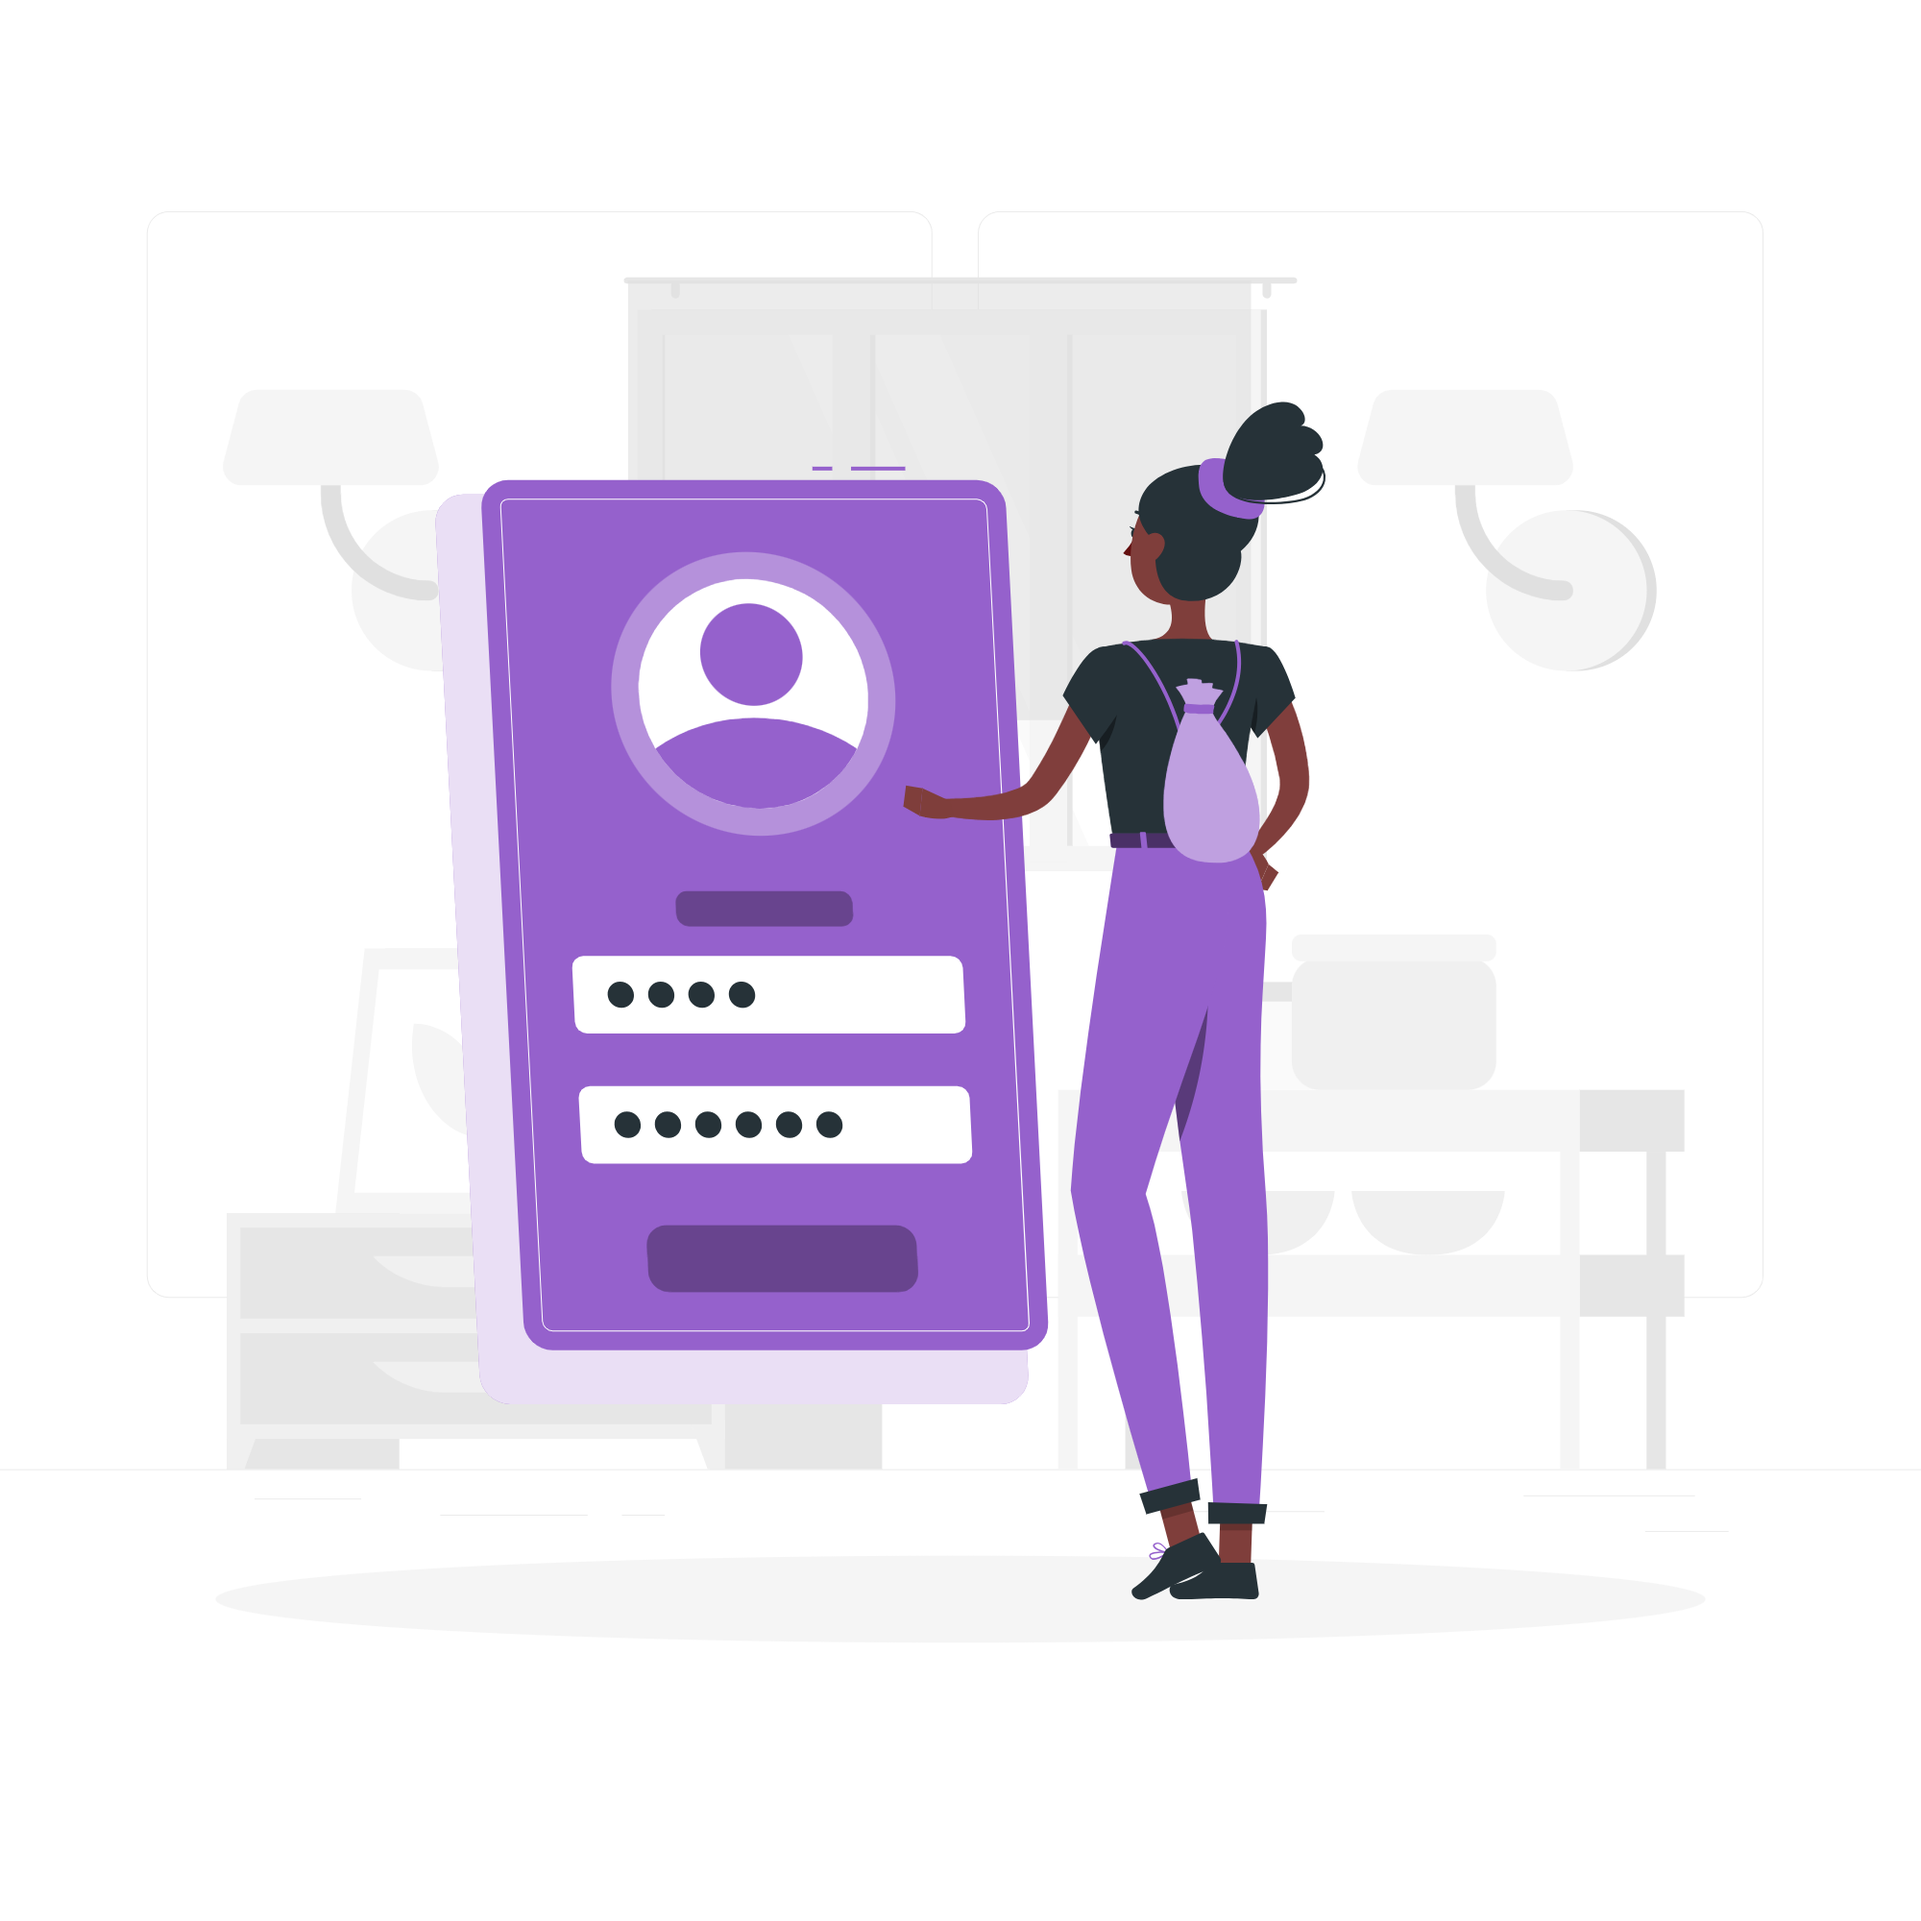
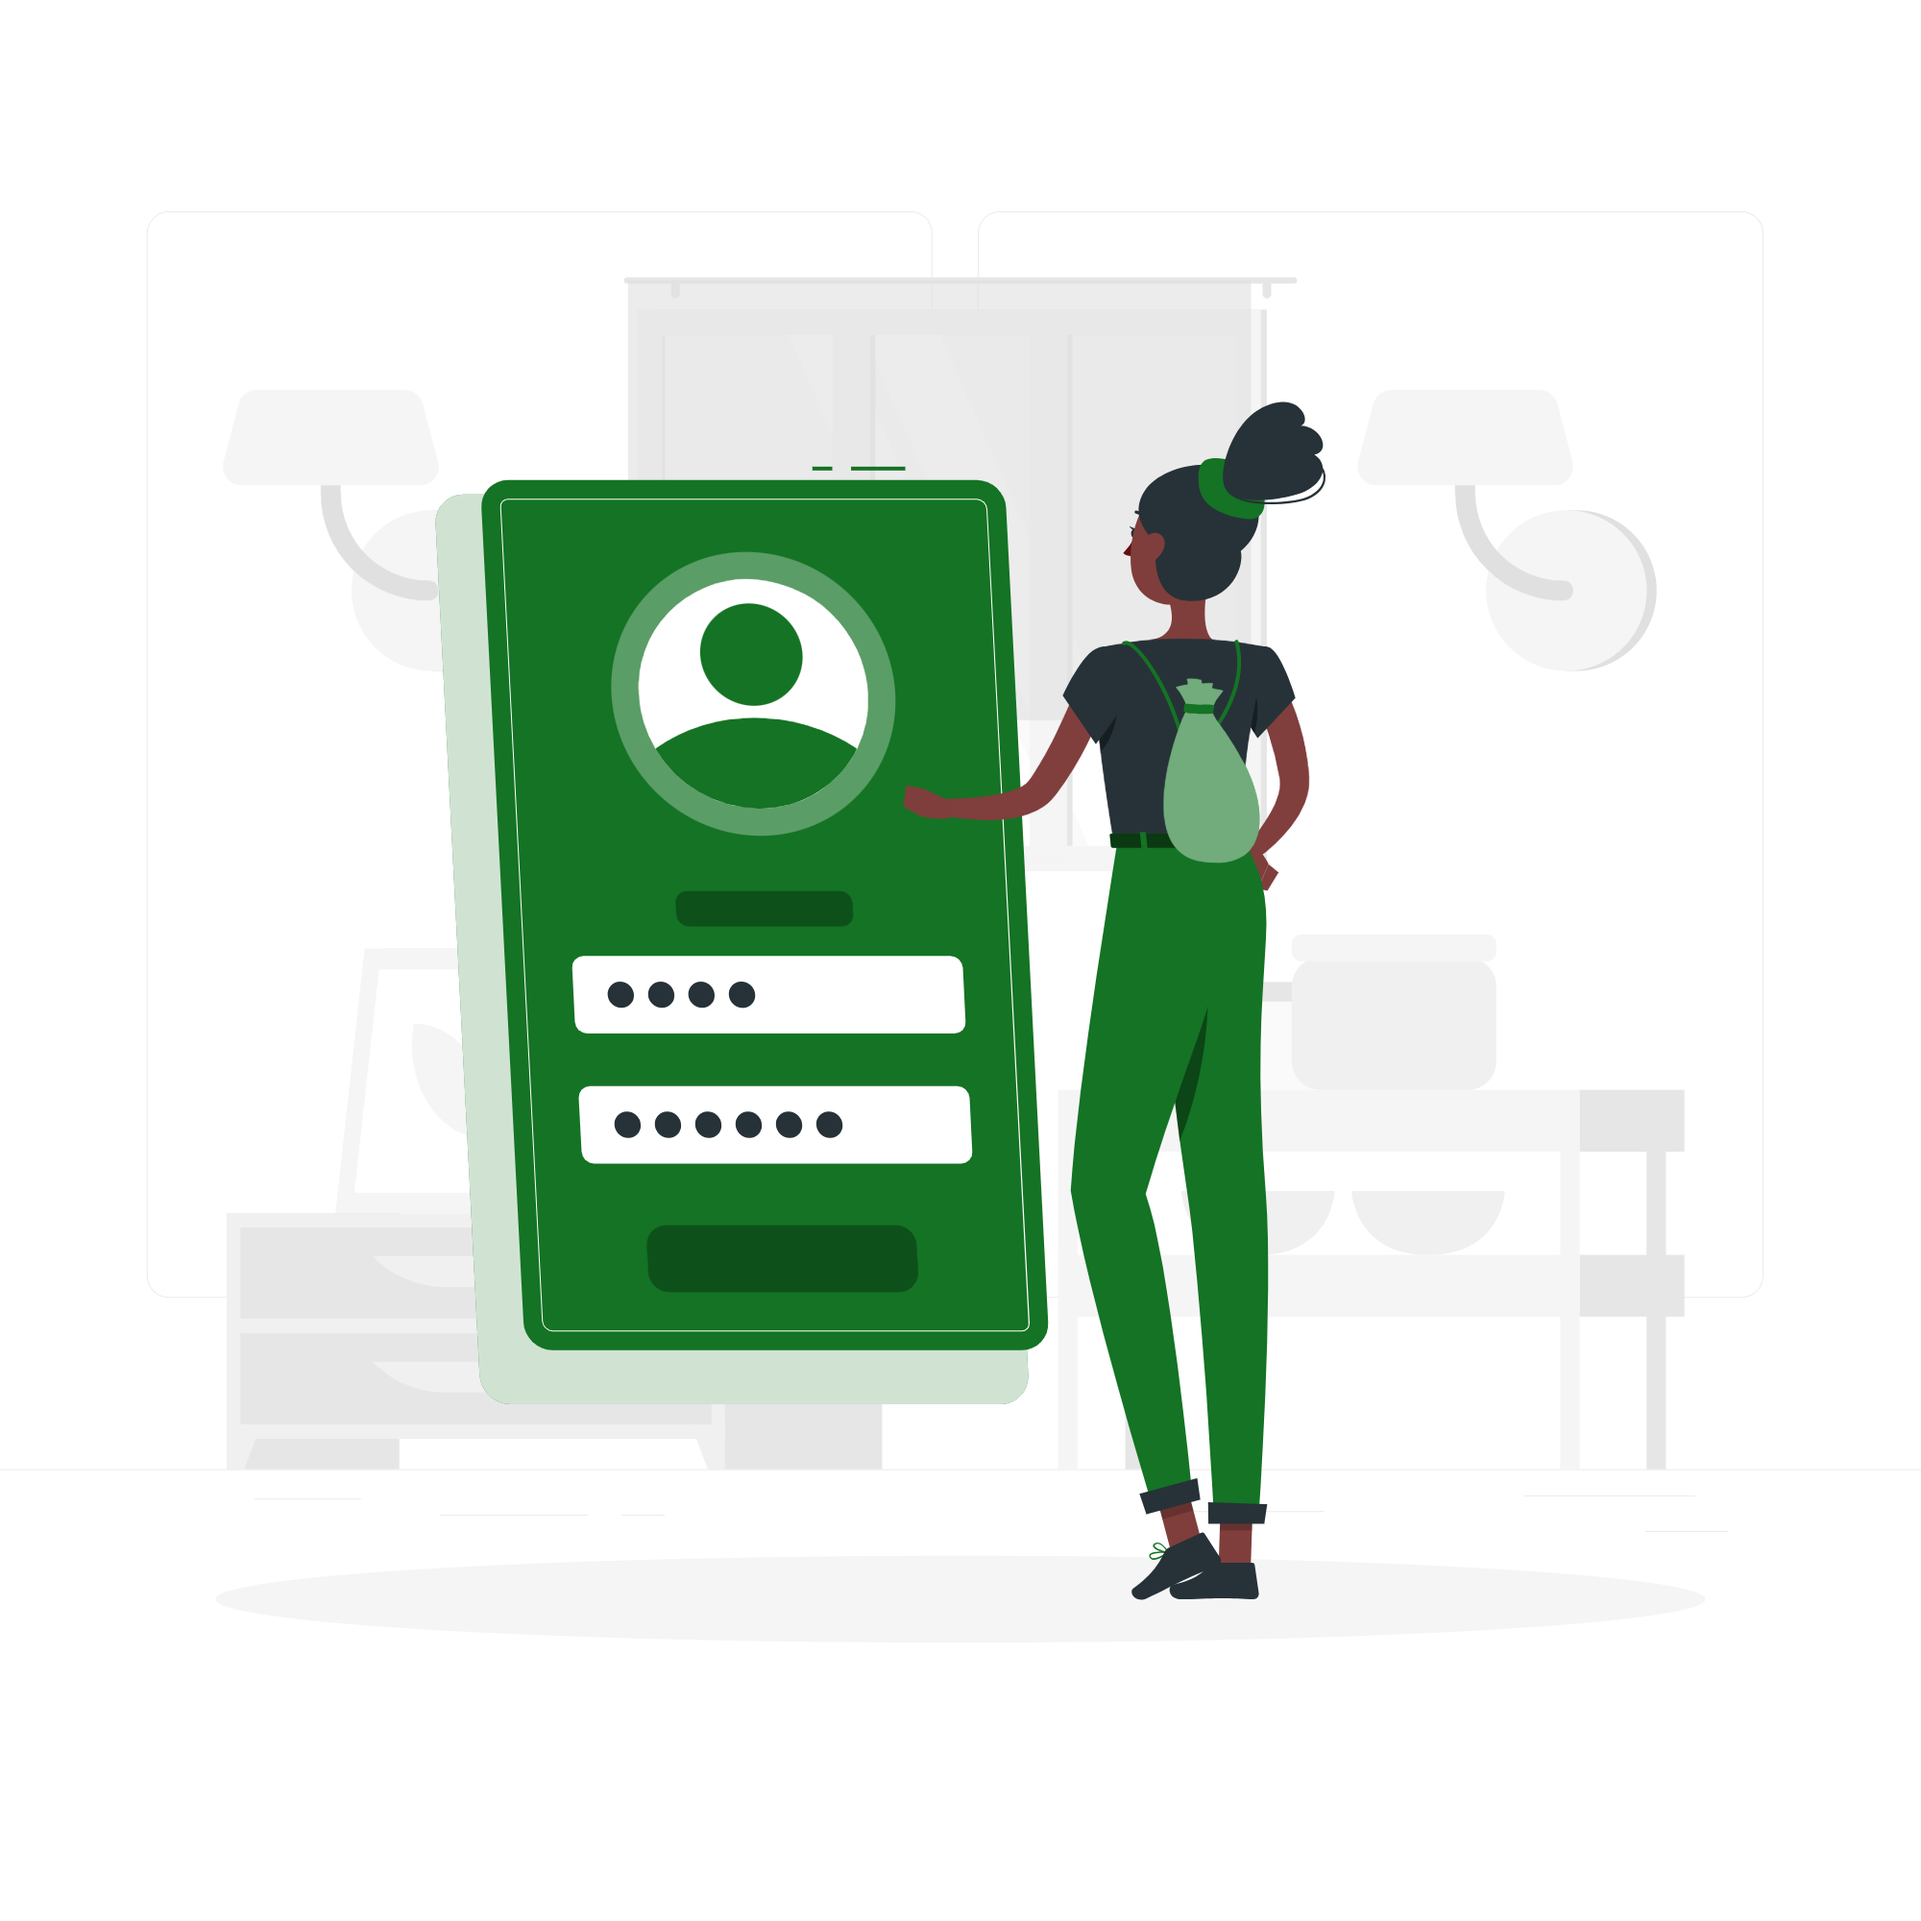
UI Update

Changed region(s): [[0.217, 0.248, 0.682, 0.806], [0.62, 0.217, 0.651, 0.279]]

diff --git a/src/App.tsx b/src/App.tsx
@@ -79,7 +79,7 @@ const LoginForm: React.FC = () => {
               Forgot password?
             </a>
           </div>
-          <Button type='submit' loading={loading} className="my-10 max-w-30 uppercase bg-[#9561CC]">
+          <Button type='submit' loading={loading} className="my-10 max-w-30 uppercase bg-[#147324]">
             Sign in
           </Button>
         </form>
